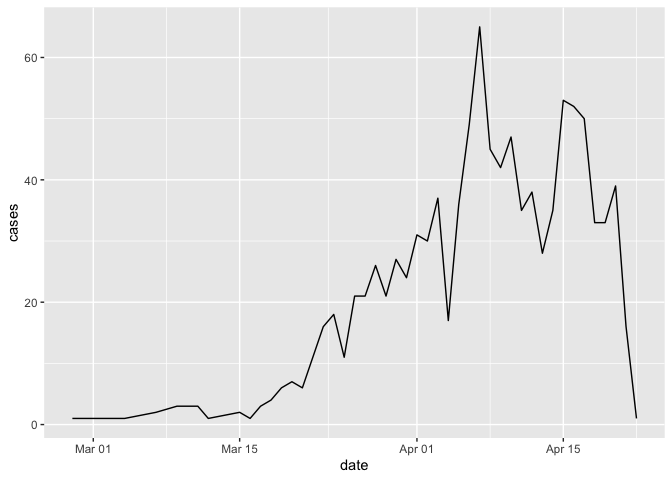
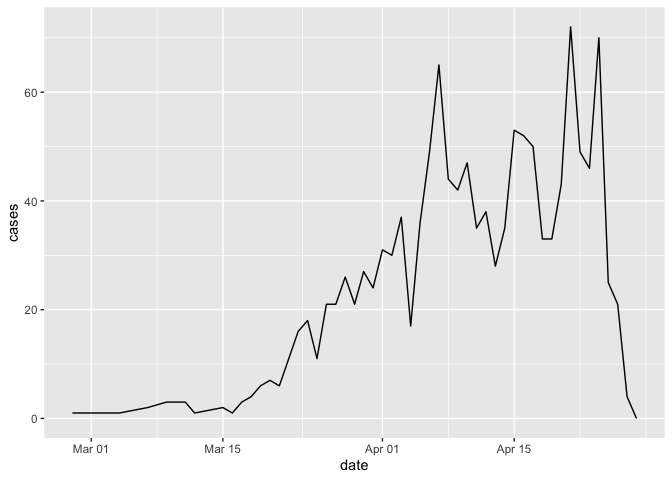
update README

diff --git a/README.md b/README.md
@@ -3,6 +3,8 @@
 
 # covid19uk
 
+![.github/workflows/main.yml](https://github.com/layik/covid19uk/workflows/.github/workflows/main.yml/badge.svg)
+
 Some basic analysis to go with the eAtlas covid19UK application.
 
 Currently the date released by PHE in their dashboard can be found under
@@ -25,14 +27,14 @@ names(json)
 ```
 
     ## [1] "lastUpdatedAt" "disclaimer"    "overview"      "countries"    
-    ## [5] "regions"       "utlas"
+    ## [5] "regions"       "utlas"         "ltlas"
 
 ``` r
 # so last released data is
 json$lastUpdatedAt
 ```
 
-    ## [1] "2020-04-23T15:11:47.082664Z"
+    ## [1] "2020-04-29T21:32:34.352917Z"
 
 Nicely, they also release geometries and we can generate maps. For
 example to get thee latest figures of the regions:
@@ -89,10 +91,12 @@ cityWithDaily = function(name = "Leeds", total = FALSE) {
   names(cc) = c("date", "cases")
   cc$date = as.POSIXct(as.character(cc$date))
   cc$cases = as.numeric(as.character(cc$cases))
+  cc$name = name
   cc
 }
 # cityWithDaily() %>% ggplot(aes(date,cases)) + geom_bar(stat="identity")
-cityWithDaily(total = T) %>% ggplot(aes(date,cases)) + geom_line()
+cityWithDaily(total = T) %>% ggplot(aes(date,cases)) + geom_line() + ggtitle("Leeds total cases")
+
 cityWithDaily() %>% ggplot(aes(date,cases)) + geom_line()
 ```
 
@@ -133,3 +137,17 @@ Get countries data?
 ``` r
 countriesWithCases = addCasesToUTLAs(countries, json, geo = "countries")
 ```
+
+## Google Mobility
+
+We could look at the Google mobility data released
+[here](https://www.google.com/covid19/mobility/). Upon a an initial
+look, I could not see any obvious correlation between total case numbers
+in a local authority and amount of drop in mobility. That is to see if
+areas with less compliance with lockdown leading to more cases.
+
+The code can be found here in the repo. The following image was
+generated from the code and shows the top hotpspots in the UK on 29th
+April 2020 and corresponding Google mobility data. Also, the not so hot
+spots with the same corresponding traffic flow drop rates.
+![](https://pbs.twimg.com/media/EWyBxLYWkAE5MBO?format=jpg&name=medium)
